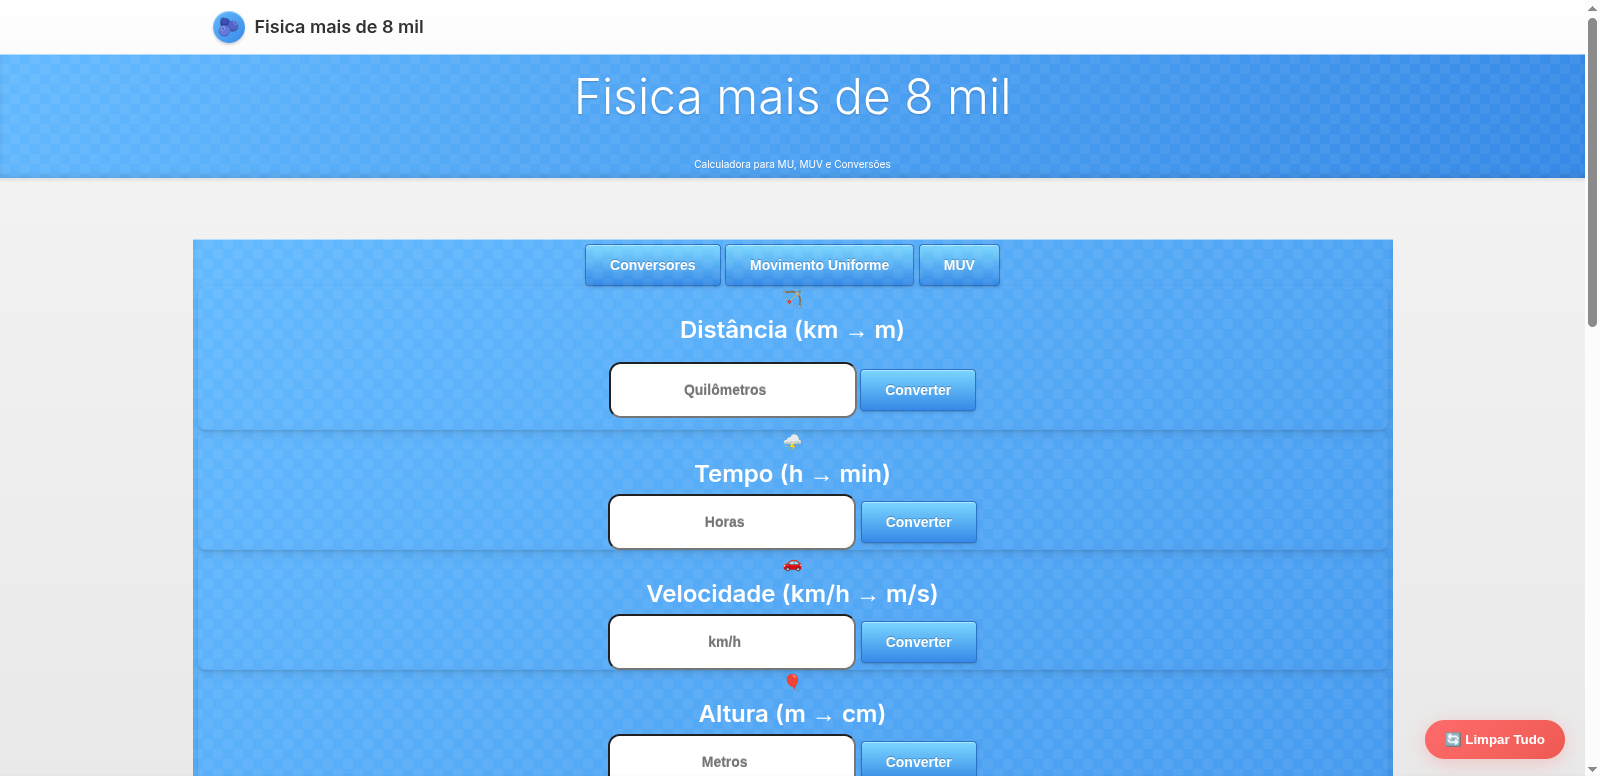
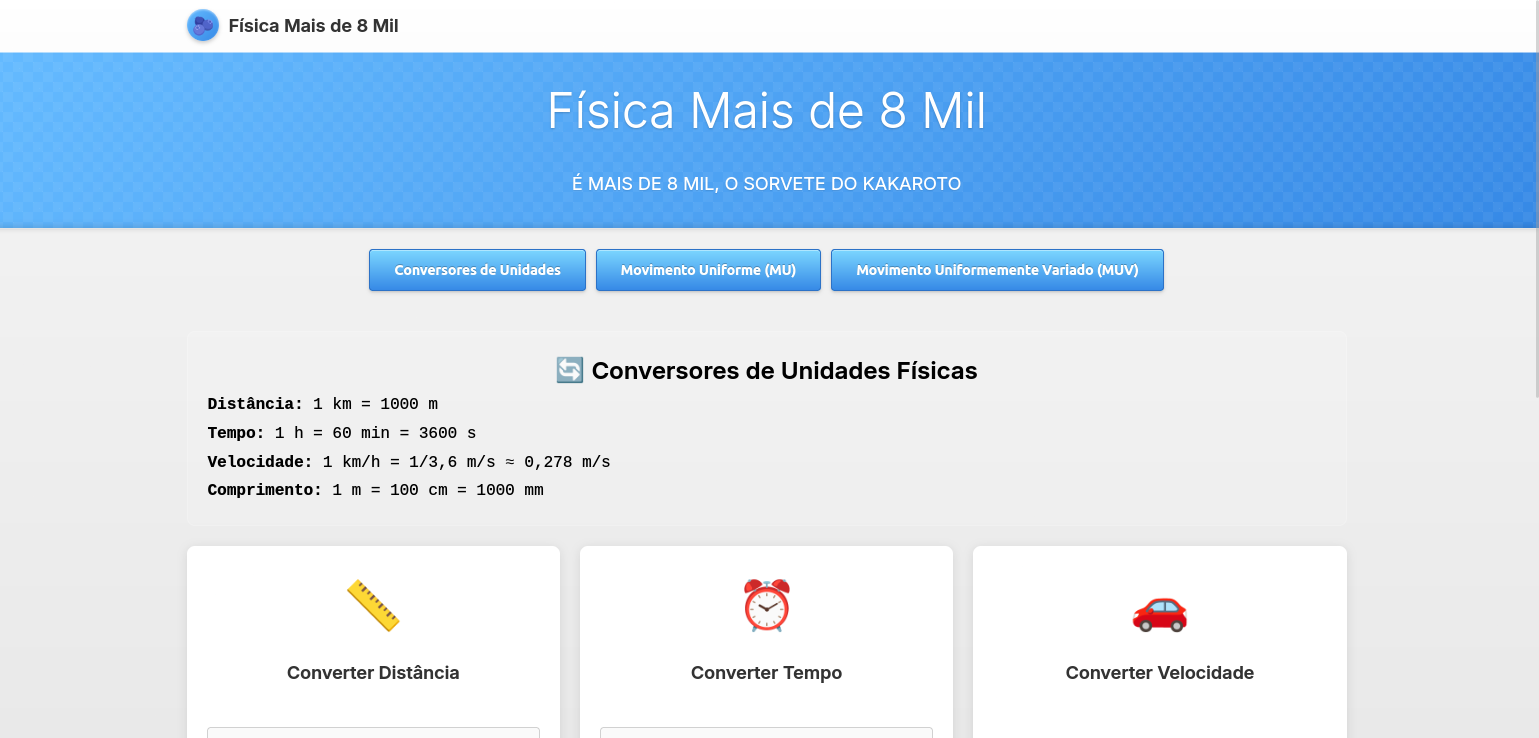
changes

diff --git a/styles.css b/styles.css
@@ -1,21 +1,21 @@
         /* CSS Variables */
         :root {
-            --primary-light: #4dacfa;
-            --primary-variant-light: #78b5ff;
-            --secondary-light: #ff5959;
-            --surface-light: #fff2ab;
-            --background-light: #feffaa;
-            --on-primary-light: #fff9bf;
-            --on-surface-light: #2c3e50;
-            --on-background-light: #34495e;
+            --primary-light: #58a0ff;
+            --primary-variant-light: #2487ff;
+            --secondary-light: #fdf900;
+            --surface-light: #f3f3f3;
+            --background-light: #f0f0f0;
+            --on-primary-light: #c9c9c9;
+            --on-surface-light: #1d2630;
+            --on-background-light: #282f36;
             --shadow-light: 0 2px 10px rgba(0, 0, 0, 0.1);
             --header-overlay-light: rgba(0, 0, 0, 0.4);
             
-            --primary-dark: #ff8521;
+            --primary-dark: #2bb609;
             --primary-variant-dark: #09c25c;
-            --secondary-dark: #ff4848;
-            --surface-dark: #1c5338;
-            --background-dark: #143b14;
+            --secondary-dark: #00d346;
+            --surface-dark: #393e3f;
+            --background-dark: #464d4e;
             --on-primary-dark: #ffffff;
             --on-surface-dark: #e1e8ed;
             --on-background-dark: #f6f8fa;

diff --git a/index.html b/index.html
@@ -83,7 +83,7 @@
                 <div class="project-card">
                     <div class="project-image" style="background-image: url('./images/screenshot-project6.webp');"></div>
                     <div class="project-info">
-                        <h3>Physics Calculator</h3>
+                        <h3>Fisica MAIS DE 8 MIL</h3>
                         <p>Calculadora e conversor para fórmulas físicas, incluindo conversões de tempo, distância e outras unidades.</p>
                         <a href="https://azzynovais.github.io/morethan8000sphysics/" target="_blank" class="btn" rel="noopener">Ver Projeto</a>
                     </div>
